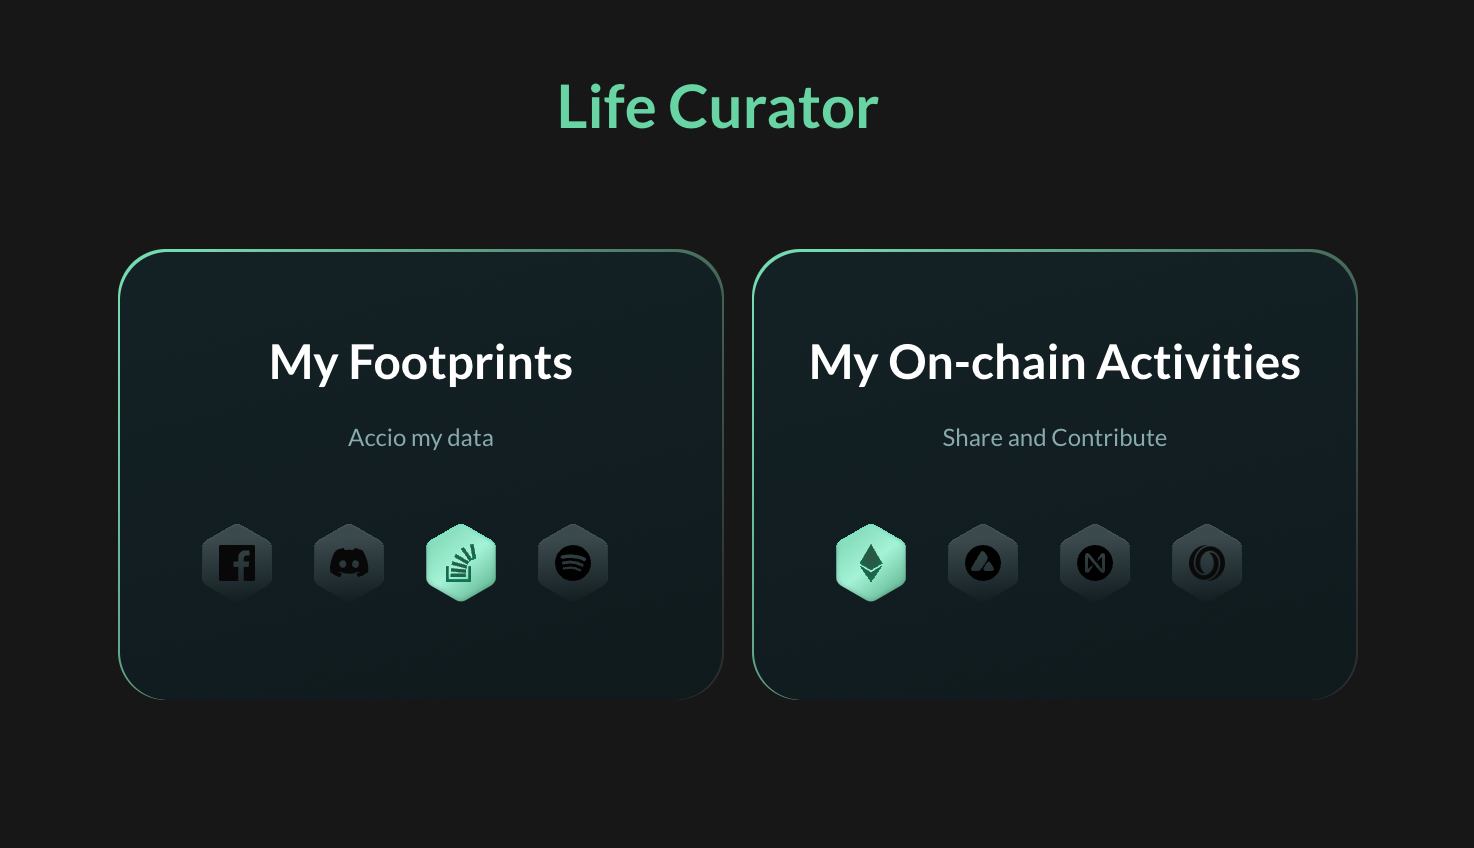
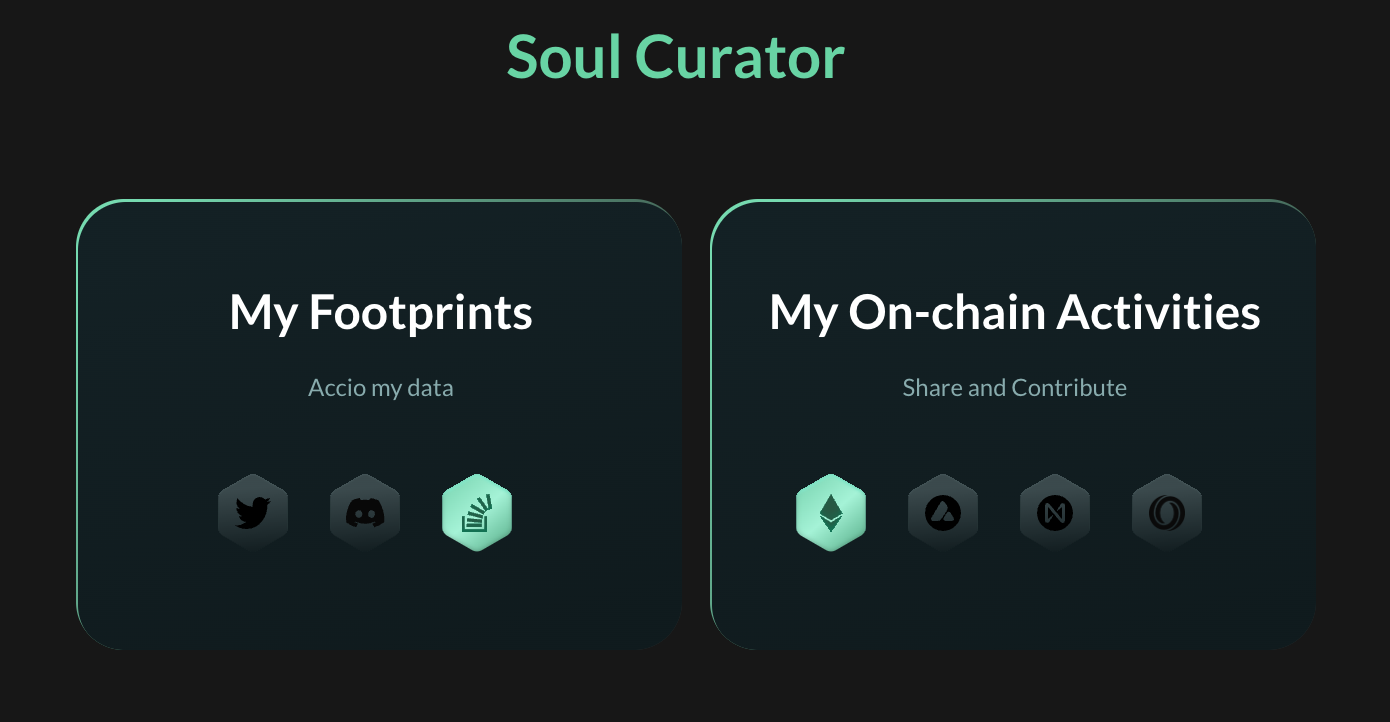
update some title of end user guide

diff --git a/docs/explorer.md b/docs/explorer.md
@@ -1,12 +1,12 @@
-# Explorer
+# Parmeus Inspector
 
-Parmeus provides a [explorer](https://parmeus.github.io/explorer) for user to try APIs conveniently and intuitively. User could select function in the drop down list. It supports 4 functions now:
+Parmeus provides an [inspector](https://parmeus.github.io/explorer) for user to try APIs conveniently and intuitively. User could select function in the drop down list. It supports 4 functions now:
 * Single Match: To find some similar digitalSouls of specific digitalSoul.
 * Team Match: To get the similarity matrix about a set of DigitalSouls.
 * Parmeus Identity: To get Parmeus identification including pid (ParmeusID), and primaryAddress.
 * Is Human: To validate whether a user is Human.
 
-![Parmeus Explorer Overview](imgs/parmeus-explorer-overview.png)
+![Parmeus Inspector Overview](imgs/parmeus-explorer-overview.png)
 
 ## Single Match
 
@@ -18,11 +18,11 @@ User shall do the following steps to make the search
 
 In the result, user could found some similar digitalSouls with their similarities to the requested one.
 
-![Parmeus Explorer Overview](imgs/parmeus-explorer-singlematch.jpg)
+![Parmeus Inspector Overview](imgs/parmeus-explorer-singlematch.jpg)
 
 User could check the source code of the request by click the `View Code` link.
 
-![Parmeus Explorer Overview](imgs/parmeus-explorer-singlematch-result.jpg)
+![Parmeus Inspector Overview](imgs/parmeus-explorer-singlematch-result.jpg)
 
 ## Team Match
 
@@ -34,11 +34,11 @@ User could do the following steps to make the search
 
 In the result, user could check the orthogonal matrix about similarity of all digitalSouls. The matrix represents the similarity of each digitalSoul to others.
 
-![Parmeus Explorer Overview](imgs/parmeus-explorer-teammatch.jpg)
+![Parmeus Inspector Overview](imgs/parmeus-explorer-teammatch.jpg)
 
 User could check the source code of the request by click the `View Code` link.
 
-![Parmeus Explorer Overview](imgs/parmeus-explorer-teammatch-result.jpg)
+![Parmeus Inspector Overview](imgs/parmeus-explorer-teammatch-result.jpg)
 
 ## Parmeus Identity
 
@@ -48,11 +48,11 @@ User could input the wallet address and make the search. The result will be show
 * pid: The parmeus id of the address
 * primaryAddress: The wallet address (in encypted format) that works as primary address of the digitalSoul. User could click the unlock button to check decrypted address.
 
-![Parmeus Explorer Overview](imgs/parmeus-explorer-identity.jpg)
+![Parmeus Inspector Overview](imgs/parmeus-explorer-identity.jpg)
 
 User could check the source code of the request by click the `View Code` link.
 
-![Parmeus Explorer Overview](imgs/parmeus-explorer-identity-result.jpg)
+![Parmeus Inspector Overview](imgs/parmeus-explorer-identity-result.jpg)
 
 ## Is Human
 
@@ -64,9 +64,9 @@ User could input the wallet address and make the search. The result will be show
 * unlockedTime: The time when the user get the token.
 * unlockedVer: Unlocked version of the token.
 
-![Parmeus Explorer Overview](imgs/parmeus-explorer-human.jpg)
+![Parmeus Inspector Overview](imgs/parmeus-explorer-human.jpg)
 
 User could check the source code of the request by click the `View Code` link.
 
-![Parmeus Explorer Overview](imgs/parmeus-explorer-human-result.jpg)
+![Parmeus Inspector Overview](imgs/parmeus-explorer-human-result.jpg)
 

diff --git a/docs/guide/end-user-guide.md b/docs/guide/end-user-guide.md
@@ -58,25 +58,25 @@ Here we introduce some terminologies.
 1. *Clarity* is how stable your profile gem is, the more training, the more stable.
 1. *Color* is your avatar generated based on your digital soul.
 
-##### Life Inspector
+##### Soul Discoverer
 
 In this section, we provide our well-designed game packs, and we collect your behaviors on the premise of simply satisfying the fun, and give you some advice in terms of workplace, psychology, financial quotient, etc. More game packs are on the way.
 
-![Parmeus Life Inspector](imgs/parmeus-life-inspector.png)
+![Parmeus Soul Discoverer](imgs/parmeus-life-inspector.png)
 
-##### Life Explorer
+##### Soul Explorer
 
 **This is still in beta now, will publish shortly.** In this part, we will provide a game park with various mini-games to learn about brain power, mathematics, music, film and television, personality and other characteristics, and greatly help Parmeus to build your own digital soul in the shortest possible time.
 
 ![Parmeus Life Explorer](imgs/parmeus-life-explorer.png)
 
-##### Life Curator
+##### Soul Curator
 
 **This is still in beta now, will publish shortly.** In this section, Parmeus will follow your authorization to access your social community. After our powerful AI processing, Parmeus continuously build your digital soul, making it more stable and powerful. In the meantime, your social data is also properly and safely kept in your decentralized storage space.
 
 ![Life Curator](imgs/parmeus-life-curator.png)
 
-##### Life Search
+##### Soul Search
 
 In this section, Parmeus offers different searches to find what your soulmate likes. Initially, the search results may be inaccurate, but we believe it will get better as your digital soul grows stronger and other digital souls contribute.
 

diff --git a/docs/deprecated/find-similar.md b/docs/deprecated/find-similar.md
@@ -1,11 +1,11 @@
 # Find similar digital selves
 
-Find similar digital selves by a specific digital self id, given traits, or anything that can describe a digital self.
+Find similar digital selves by a specific digital soul id, given traits, or anything that can describe a digital soul.
 
 ### API definition
 
 ```js
-// @param id|traits|idOrTraits - a digital self identity or a hashmap with trait id as key and trait score as value
+// @param id|traits|idOrTraits - a digital soul identity or a hashmap with trait id as key and trait score as value
 // @param options - the options to filter the returning result
 // @param traitsFilter - a delegate function to filter whether the traits are reached to the criteria
 // @return - an array of digital selves that similar to a specific one
@@ -14,7 +14,7 @@ async function findDigitalSelves(digitalSelfvs: DigitalSelf[] ,options: DigitalS
 ```
 
 ### Example 1: find similar digital selves by a specified traits
-Find similar digital selves by a specified digital self.
+Find similar digital selves by a specified digital soul.
 
 <!-- tabs:start -->
 

diff --git a/docs/README.md b/docs/README.md
@@ -2,11 +2,7 @@
 
 ## Introduction
 
-Parmeus is a decentralized network for users to create, grow and own their digital selves. We
-define digital self as a person’s soulbound traits across domains of personality, non-cognitive
-qualities and preferences. With such a rich digital representation of who we are, the network
-generates value by encouraging and matching its participants, individuals or organizations, to
-contribute and gain information about themselves and others.
+Parmeus is a decentralized network for users to create, grow and own their digital selves. We define digital soul as a person’s soulbound traits across domains of personality, non-cognitive qualities and preferences. With such a rich digital representation of who we are, the network generates value by encouraging and matching its participants, individuals or organizations, to contribute and gain information about themselves and others.
 
 Parmeus also describes a data standard, storage, soulbound identity as the foundation of a seamless and secure digital social experience in Web3.
 
